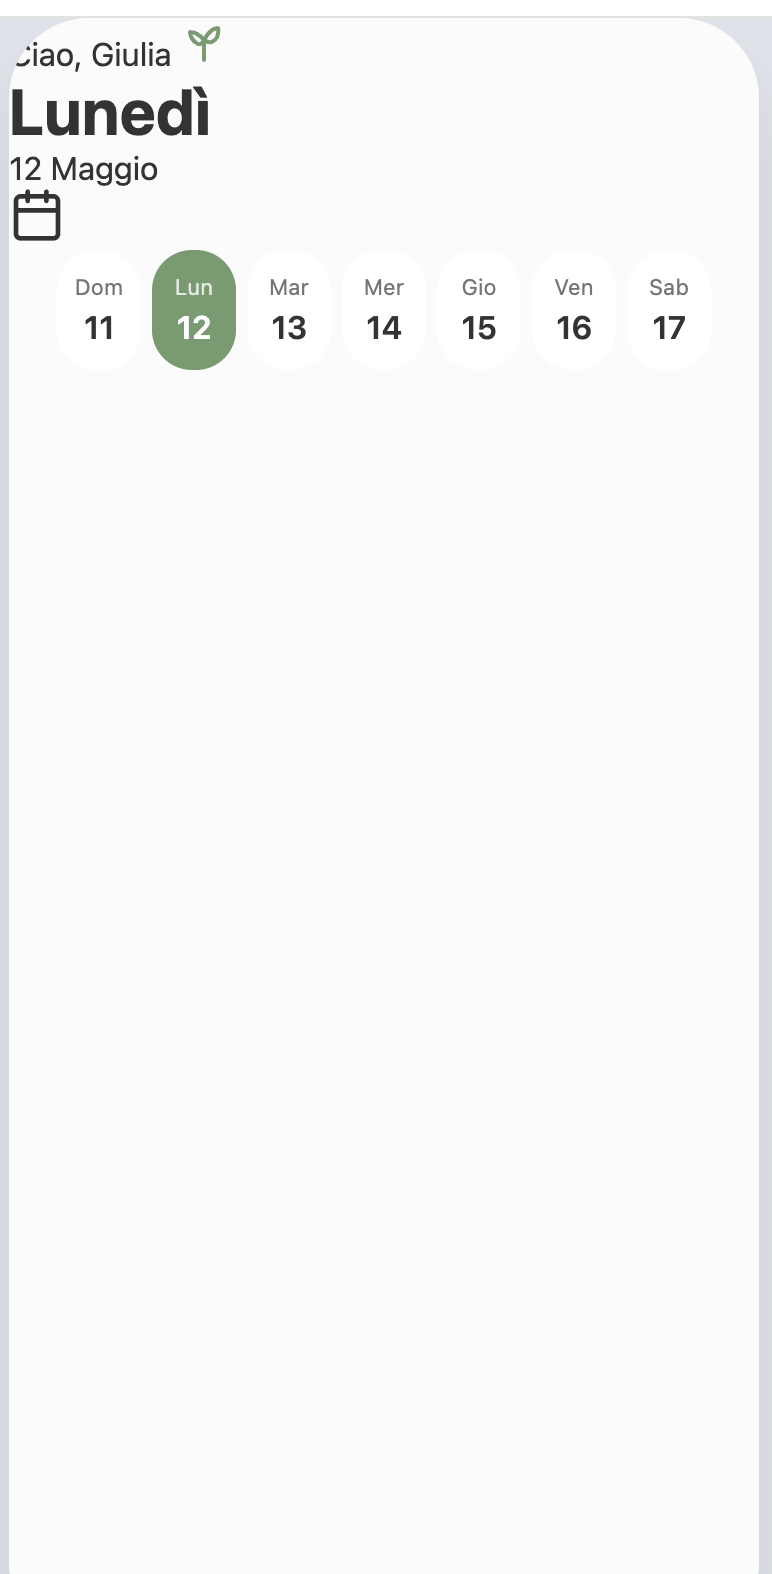
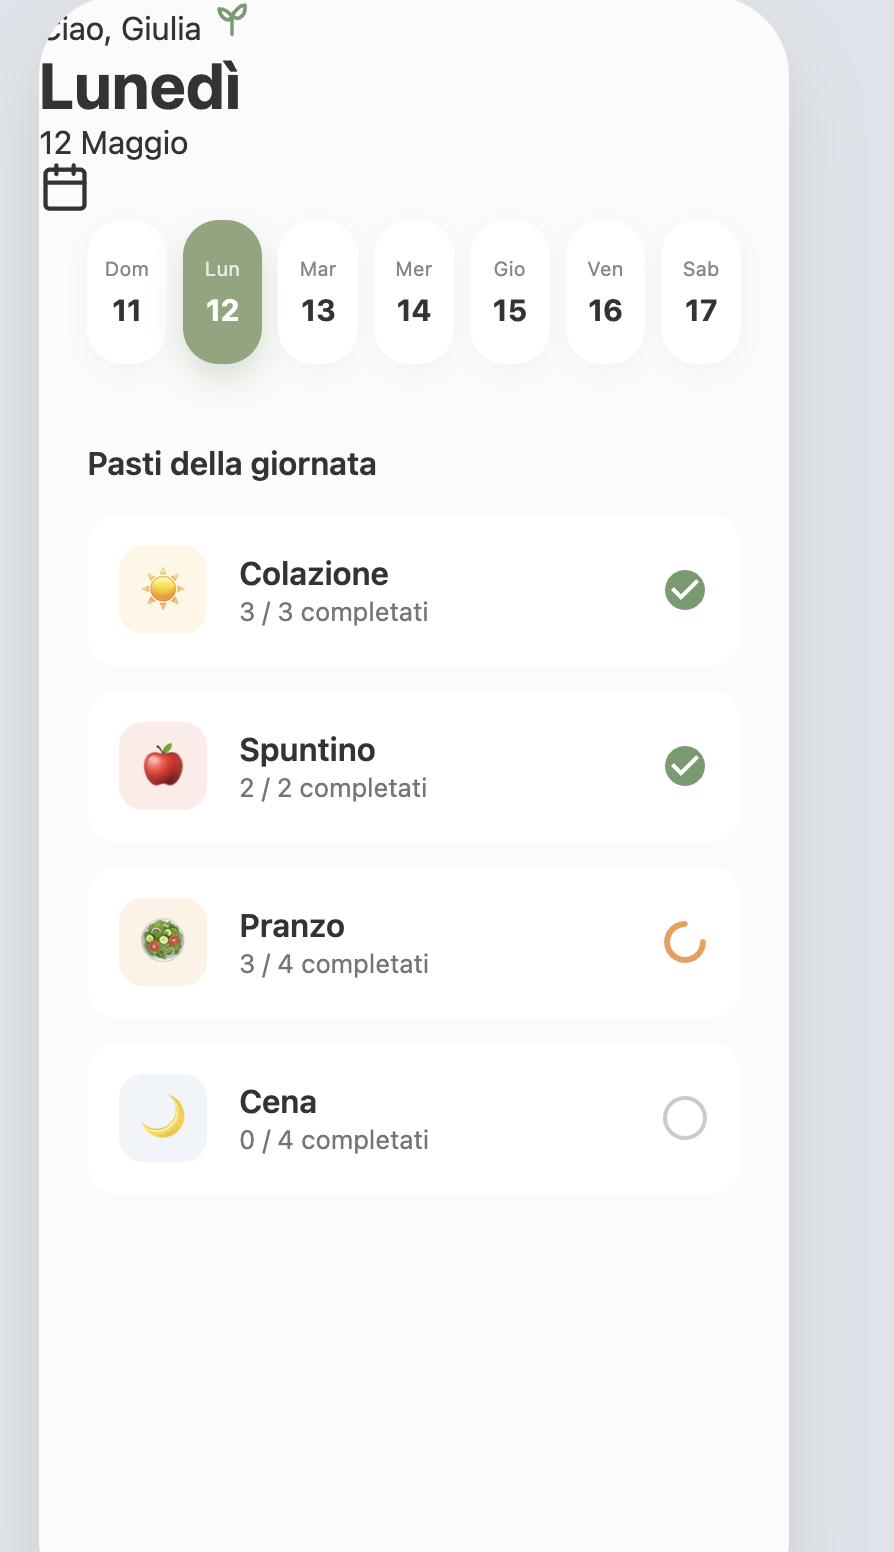
Refactor: Move date header to Calendar component and refine visual hierarchy

diff --git a/components/calendar/calendar.html b/components/calendar/calendar.html
@@ -1,4 +1,17 @@
-<div class="calendar-container">
+<div class="calendar-section">
+    <div class="date-header">
+        <div class="date-info">
+            <h1 class="day-name">Lunedì</h1>
+            <p class="date-full">12 Maggio</p>
+        </div>
+        <div class="calendar-icon-box">
+            <svg class="icon-calendar" width="26" height="26" viewBox="0 0 24 24" fill="none" xmlns="http://www.w3.org/2000/svg">
+                <rect x="3" y="4" width="18" height="18" rx="2" ry="2" stroke="#333" stroke-width="2"/>
+                <path d="M16 2V6M8 2V6M3 10H21" stroke="#333" stroke-width="2" stroke-linecap="round"/>
+            </svg>
+        </div>
+    </div>
+
     <div class="calendar-row">
         <div class="calendar-day">
             <span class="day-label">Dom</span>
@@ -32,8 +45,28 @@
 </div>
 
 <style>
-    .calendar-container {
-        padding: 0 24px 30px;
+    .calendar-section {
+        padding: 10px 24px 30px;
+    }
+    .date-header {
+        display: flex;
+        justify-content: space-between;
+        align-items: flex-end;
+        margin-bottom: 25px;
+    }
+    .day-name {
+        font-size: 26px;
+        font-weight: 700;
+        margin: 0;
+        letter-spacing: -0.5px;
+    }
+    .date-full {
+        font-size: 16px;
+        color: #666;
+        margin: 2px 0 0 0;
+    }
+    .calendar-icon-box {
+        padding-bottom: 5px;
     }
     .calendar-row {
         display: flex;
@@ -51,7 +84,6 @@
         border-radius: 18px;
         background-color: #fff;
         box-shadow: 0 4px 12px rgba(0,0,0,0.03);
-        transition: all 0.3s ease;
     }
     .day-label {
         font-size: 10px;
@@ -63,7 +95,7 @@
         font-weight: 700;
     }
     .calendar-day.active {
-        background-color: #8da67d; /* Verde più tenue come nel mockup */
+        background-color: #8da67d;
         color: #fff;
         box-shadow: 0 8px 16px rgba(141, 166, 125, 0.3);
     }

diff --git a/components/header/header.html b/components/header/header.html
@@ -6,18 +6,6 @@
             <path d="M12 21V11M12 11C12 11 9 7 5 7C5 7 5 11 9 13C10.5 13.75 12 11 12 11ZM12 11C12 11 15 5 19 5C19 5 20 10 16 12C14.5 12.75 12 11 12 11Z" stroke="#719b6e" stroke-width="2" stroke-linecap="round" stroke-linejoin="round"/>
         </svg>
     </div>
-    <div class="date-row">
-        <div class="date-info">
-            <h1 class="day-name">Lunedì</h1>
-            <p class="date-full">12 Maggio</p>
-        </div>
-        <div class="calendar-icon-box">
-            <svg class="icon-calendar" width="26" height="26" viewBox="0 0 24 24" fill="none" xmlns="http://www.w3.org/2000/svg">
-                <rect x="3" y="4" width="18" height="18" rx="2" ry="2" stroke="#333" stroke-width="2"/>
-                <path d="M16 2V6M8 2V6M3 10H21" stroke="#333" stroke-width="2" stroke-linecap="round"/>
-            </svg>
-        </div>
-    </div>
 </div>
 
 <style>
@@ -25,10 +13,7 @@
         height: 20px;
     }
     .header-container {
-        padding: 20px 24px 20px;
-        display: flex;
-        flex-direction: column;
-        gap: 25px;
+        padding: 20px 24px 10px;
     }
     .greeting-row {
         display: flex;
@@ -39,24 +24,5 @@
         font-size: 19px;
         font-weight: 500;
         color: #333;
-    }
-    .date-row {
-        display: flex;
-        justify-content: space-between;
-        align-items: center; /* Allineato al centro verticalmente rispetto al blocco testo */
-    }
-    .day-name {
-        font-size: 26px;
-        font-weight: 700;
-        margin: 0;
-        letter-spacing: -0.5px;
-    }
-    .date-full {
-        font-size: 16px;
-        color: #666;
-        margin: 2px 0 0 0;
-    }
-    .calendar-icon-box {
-        padding-bottom: 5px;
     }
 </style>